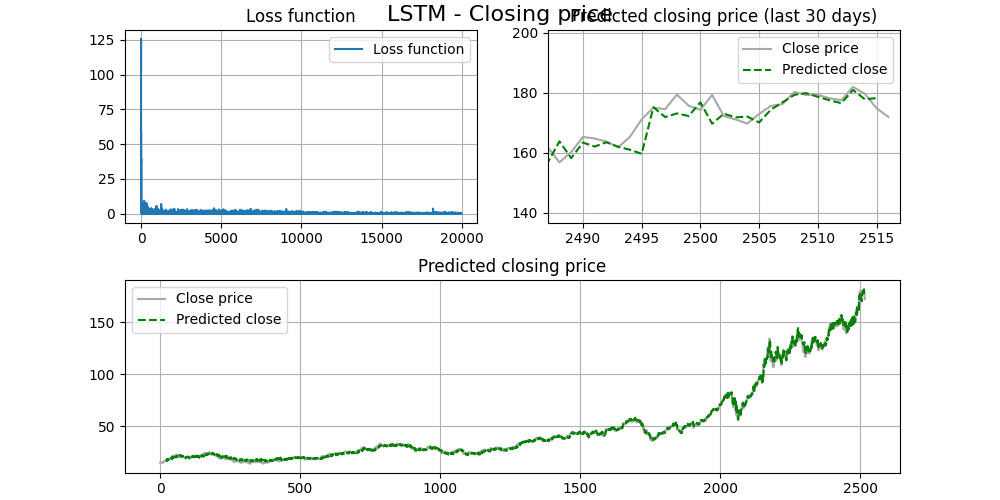
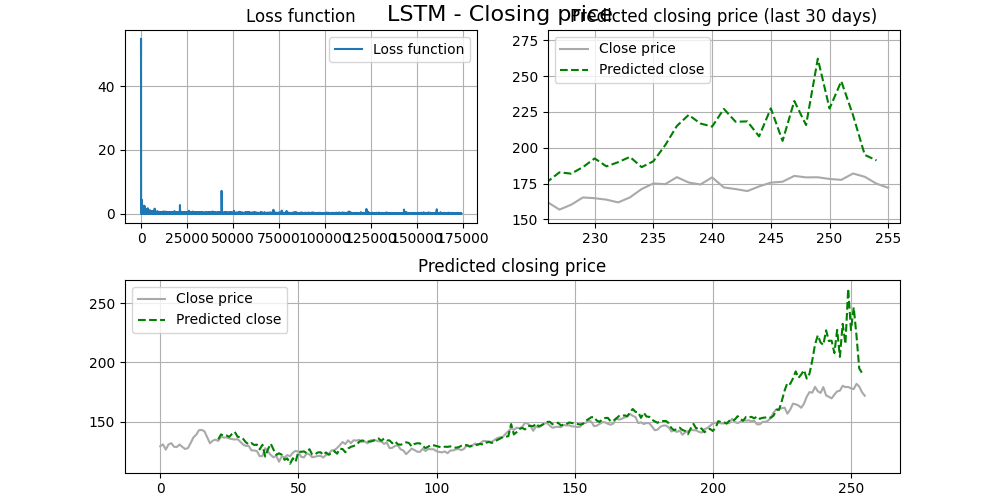
Updated more files.

diff --git a/main_LSTM_HL.py b/main_LSTM_HL.py
@@ -22,7 +22,7 @@ n_input = features * seq_len
 n_output = 2
 
 ### Training and test files ###
-training_files = ["data/TSLA.csv", "data/GME.csv", "data/VOO.csv", "data/AMD.csv"]
+training_files = ["data/AMZN.csv", "data/BRK.csv", "data/FB.csv", "data/GOOG.csv","data/GOOGL.csv","data/JPM.csv","data/MSFT.csv","data/NVDA.csv","data/TSLA.csv","data/VOO.csv"]
 test_file = ["data/AAPL.csv"]
 
 ### LSTM Model ###
@@ -96,12 +96,12 @@ class StockData(Dataset):
 ### Print and log ###
 def print_and_log(string):
     print(string)
-    with open("out/log_LSTM_HL.txt", "a") as f:
+    with open("out/log.txt", "a") as f:
         f.write(string + "\n")
 
 if __name__ == '__main__':
     # Clear the log
-    with open("out/log_LSTM_HL.txt", "w") as f:
+    with open("out/log.txt", "w") as f:
         f.write("")
 
     # Print the parameter info
@@ -210,23 +210,16 @@ if __name__ == '__main__':
         losspercent = losspercent + abs((e[0]-target1)/target1)
         losspercent = losspercent + abs((e[1]-target1)/target1)
     losspercent = (losspercent/(len(y_pred_plot)*len(y_pred_plot[0])))*100
-    print_and_log(f"\nThe mean percentual deviation from targets of this model is {losspercent}%")
+    print_and_log(f"The mean percentual deviation from targets of this model is {losspercent}%")
 
-    # Logs the last 30 days of the test dataset
-    plot_data = np.loadtxt(test_file[0], delimiter=',', skiprows=1, usecols=(4,5))[::-1]
-    plot_data_30 = plot_data[-30:]
-    pred_data_30 = y_pred_plot[-30:]
-    print_and_log("\nTest dataset last 30 days:" + "\n" + "-"*80)
-    print_and_log(f"{'Actual high':<20}{'Actual Low':<20}{'Predicted high':<20}{'Predicted low':<20}")
-    for i, e in enumerate(plot_data_30):
-        print(f"{round(e[0],4):<20}{round(e[1],4):<20}{round(pred_data_30[i][0],4):<20}{round(pred_data_30[i][1],4):<20}")
-    
 
     ### Plotting ###
     fig = plt.figure(figsize=(10, 5))
     sub = fig.subfigures(2, 1)
     (top_left, top_right) = sub[0].subplots(1, 2)
     bottom = sub[1].subplots(1, 1)
+
+    plot_data = np.loadtxt(test_file[0], delimiter=',', skiprows=1, usecols=(4,5))[::-1]
 
     # Set up the loss plot
     top_left.plot(Loss, label="Loss function")

diff --git a/main.py b/main.py
@@ -20,8 +20,8 @@ def print_and_log(string):
     log_file.write(string + "\n")
 
 # Filenames
-training_files = ["data-AAPL-small.csv", "data-TSLA-small.csv", "data-VOO-small.csv", "data-AMD-small.csv"]
-test_files = ["data-GME.csv"]
+training_files = ["data/AMZN.csv", "data/BRK.csv", "data/FB.csv", "data/GOOG.csv","data/GOOGL.csv","data/JPM.csv","data/MSFT.csv","data/NVDA.csv","data/TSLA.csv","data/VOO.csv"]
+test_files = ["data/AAPL.csv"]
 
 # Print the parameter info
 print_and_log("\nTraining on: " + str(training_files) + "\nTesting on: " + str(test_files) + "\nLogging to: log.txt")

diff --git a/sequence_length_finder_CNN.py b/sequence_length_finder_CNN.py
@@ -27,7 +27,7 @@ if __name__ == '__main__':
         n_output = 2
 
         ### Training and test files ###
-        training_files = ["data/TSLA.csv", "data/GME.csv", "data/VOO.csv", "data/AMD.csv"]
+        training_files = ["data/AMZN.csv", "data/BRK.csv", "data/FB.csv", "data/GOOG.csv","data/GOOGL.csv","data/JPM.csv","data/MSFT.csv","data/NVDA.csv","data/TSLA.csv","data/VOO.csv"]
         test_file = ["data/AAPL.csv"]
 
         ### CNN Model ###

diff --git a/learning_rate_finder.py b/learning_rate_finder.py
@@ -19,7 +19,7 @@ n_input = features * seq_len
 n_output = 1
 
 ### Training and test files ###
-training_files = ["data/data-TSLA.csv", "data/data-GME.csv", "data/data-VOO.csv", "data/data-AMD.csv"]
+training_files = ["data/AMZN.csv", "data/BRK.csv", "data/FB.csv", "data/GOOG.csv","data/GOOGL.csv","data/JPM.csv","data/MSFT.csv","data/NVDA.csv","data/TSLA.csv","data/VOO.csv"]
 test_file = ["data/data-AAPL.csv"]
 ### Parameters ###
 output_neurons = 1

diff --git a/learning_rate_finder_LSTM.py b/learning_rate_finder_LSTM.py
@@ -19,7 +19,7 @@ n_input = features * seq_len
 n_output = 1
 
 ### Training and test files ###
-training_files = ["data/data-TSLA.csv", "data/data-GME.csv", "data/data-VOO.csv", "data/data-AMD.csv"]
+training_files = ["data/AMZN.csv", "data/BRK.csv", "data/FB.csv", "data/GOOG.csv","data/GOOGL.csv","data/JPM.csv","data/MSFT.csv","data/NVDA.csv","data/TSLA.csv","data/VOO.csv"]
 test_file = ["data/data-AAPL.csv"]
 ### Parameters ###
 output_neurons = 1

diff --git a/sequence_length_finder_LSTM.py b/sequence_length_finder_LSTM.py
@@ -25,7 +25,7 @@ for q in range(30):
     n_output = 2
 
     ### Training and test files ###
-    training_files = ["data/TSLA.csv", "data/GME.csv", "data/VOO.csv", "data/AMD.csv"]
+    training_files = ["data/AMZN.csv", "data/BRK.csv", "data/FB.csv", "data/GOOG.csv","data/GOOGL.csv","data/JPM.csv","data/MSFT.csv","data/NVDA.csv","data/TSLA.csv","data/VOO.csv"]
     test_file = ["data/AAPL.csv"]
 
     ### LSTM Model ###
